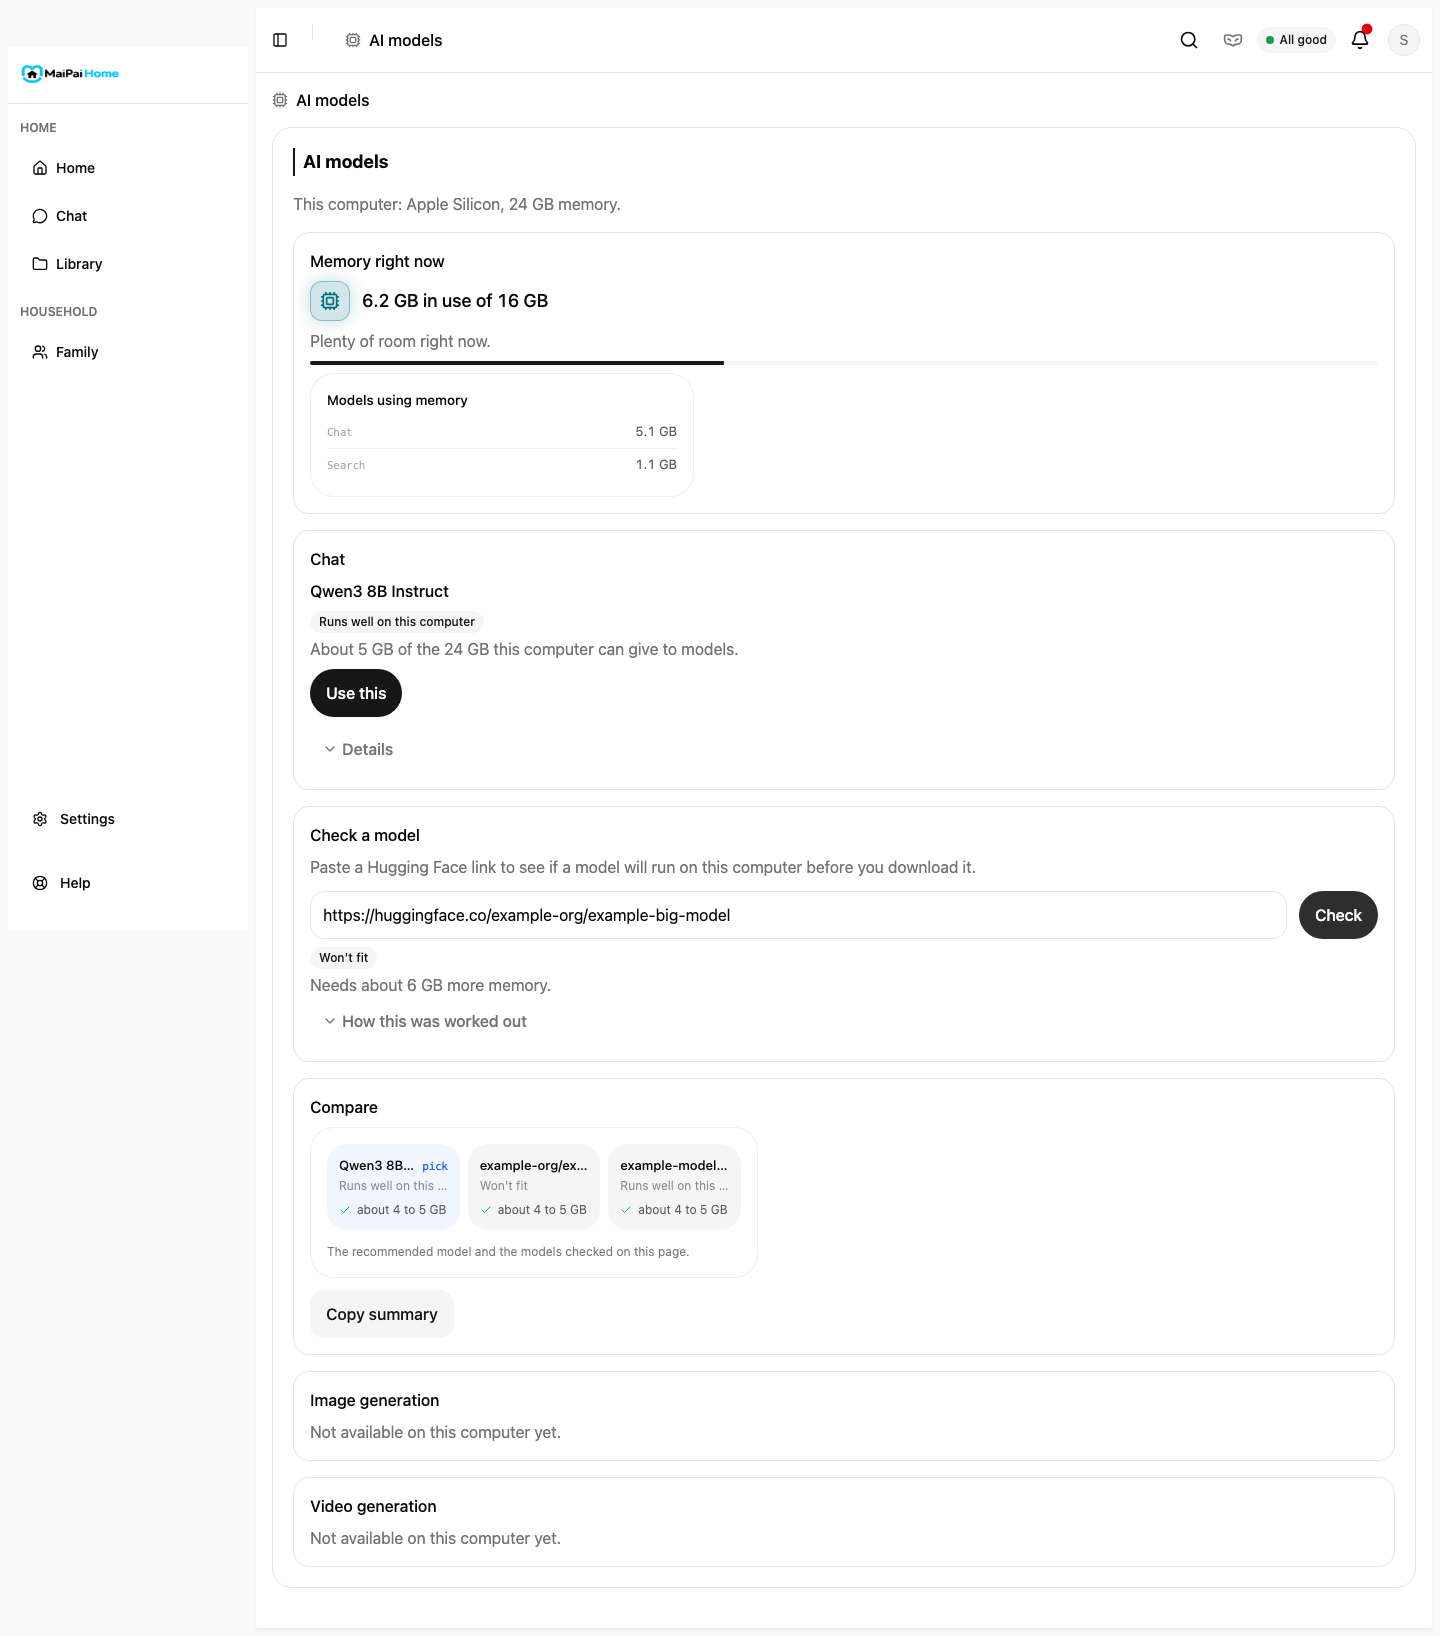
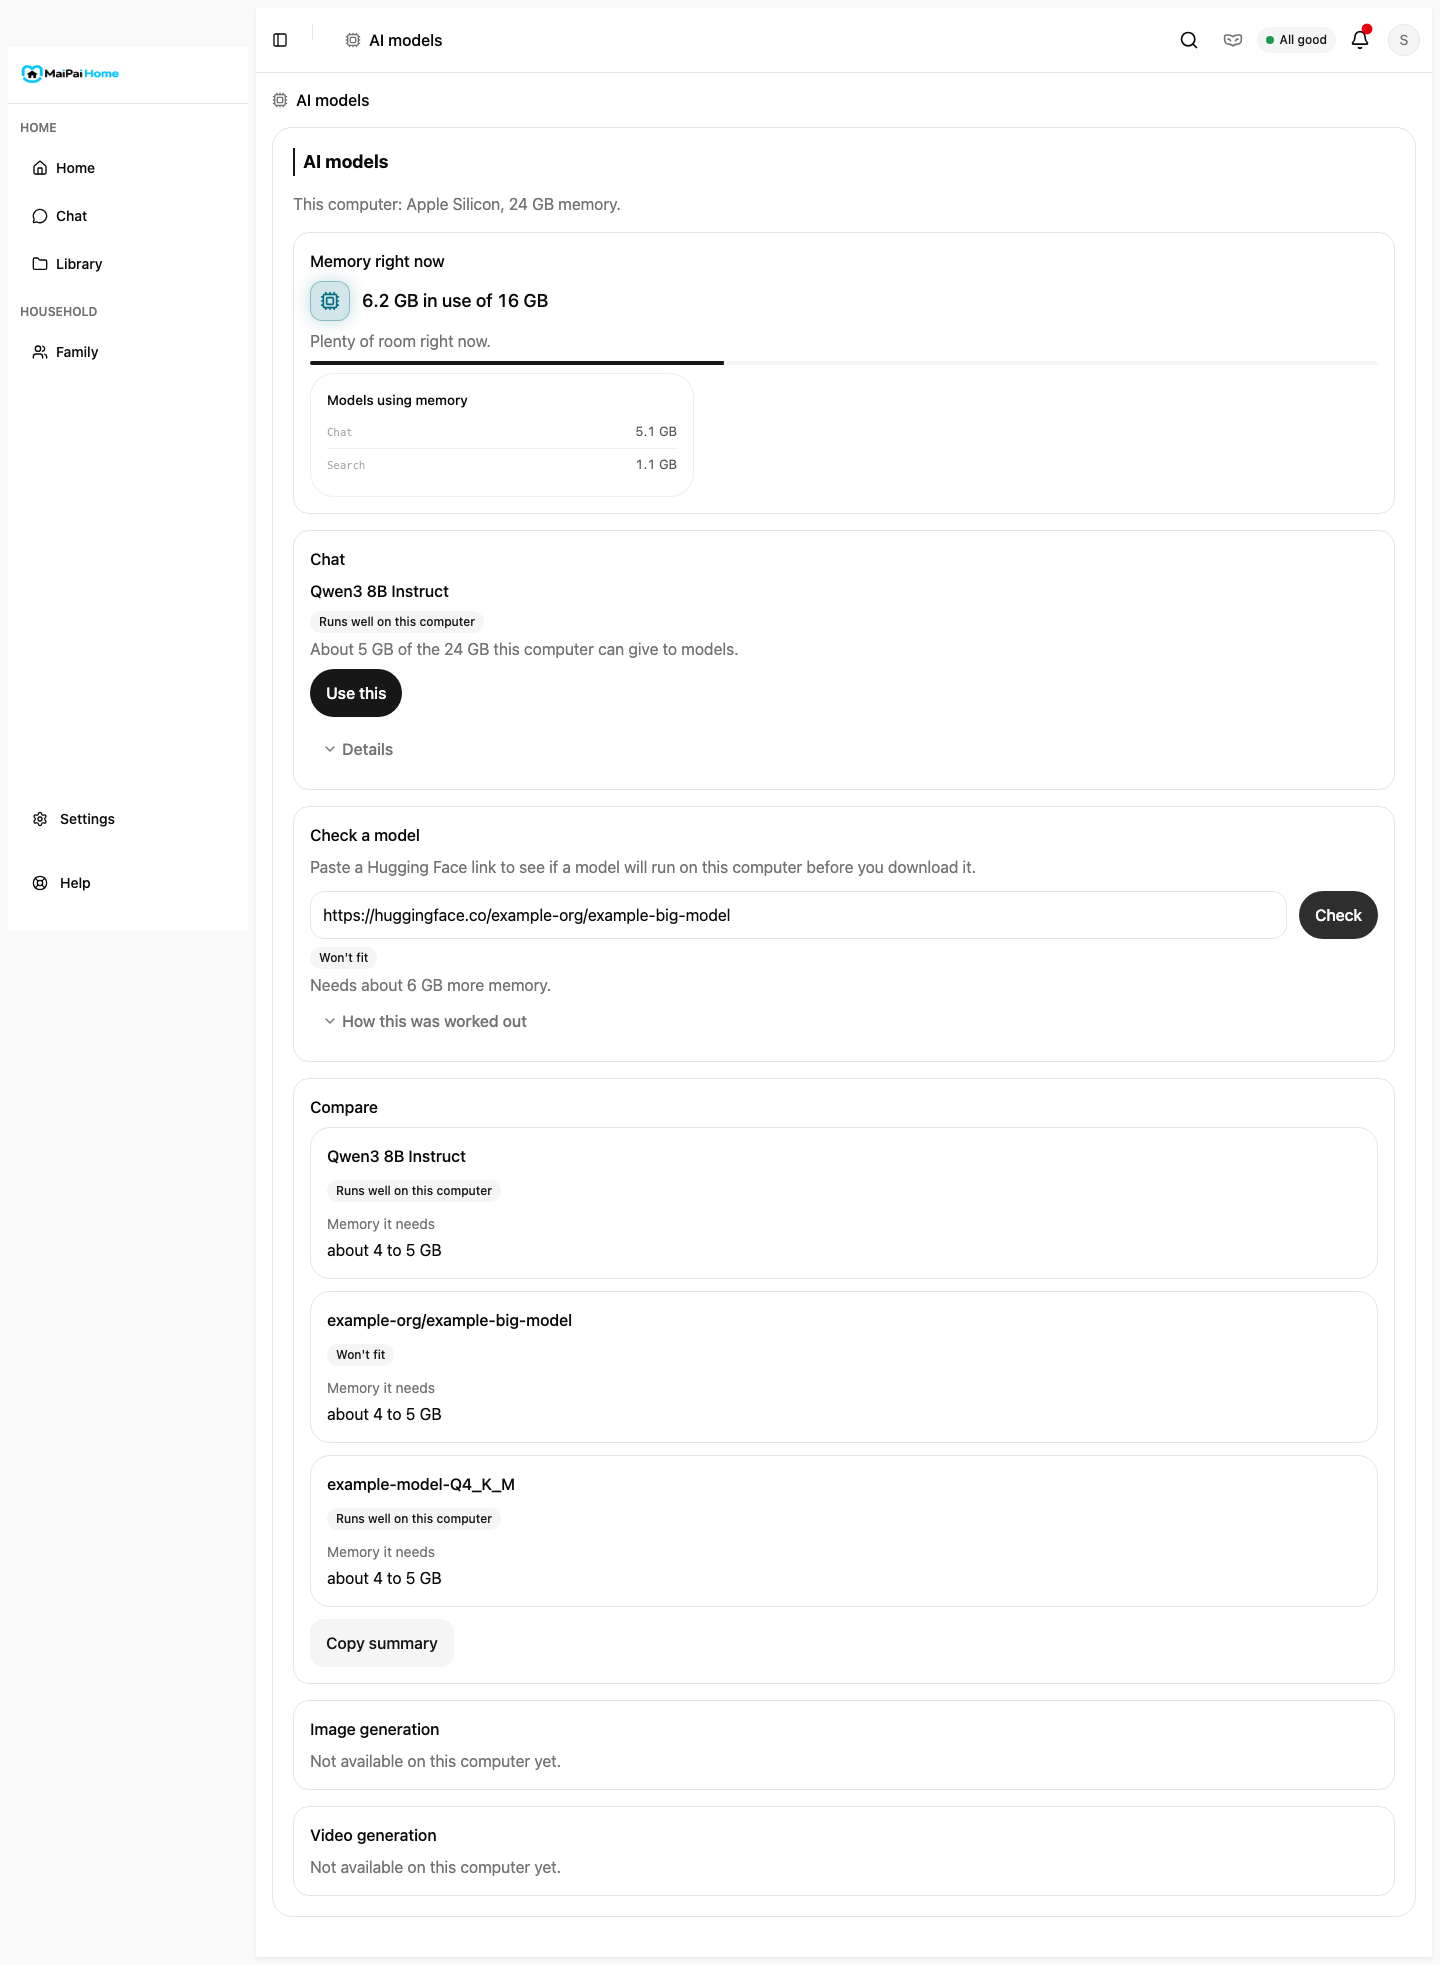
Home: a readable Compare card that does not pick or tick a no (HOME-FIT-04B)
The Compare card keeps model names and verdicts readable at phone width. No item is marked as a pick, and a model that will not fit has no check mark.

diff --git a/frontend/src/apps/settings/ModelsSection.test.tsx b/frontend/src/apps/settings/ModelsSection.test.tsx
@@ -128,10 +128,10 @@ describe("ModelsSection", () => {
       fireEvent.change(input, { target: { value: "https://huggingface.co/example-org/second-model" } });
       await act(async () => { fireEvent.click(getByRole("button", { name: "Check" })); });
       await findByText("example-org/second-model");
-      expect(document.querySelectorAll('[data-slot="comparison-card"] > div > div')).toHaveLength(3);
-      expect(document.querySelector('[data-slot="comparison-card"]')?.textContent).toContain("Qwen3 8B Instruct");
-      expect(document.querySelector('[data-slot="comparison-card"]')?.textContent).toContain("example-model-Q4_K_M");
-      expect(document.querySelector('[data-slot="comparison-card"]')?.textContent).toContain("example-org/second-model");
+      expect(document.querySelectorAll('[data-slot="compare-models"] [data-slot="card"]')).toHaveLength(3);
+      expect(document.querySelector('[data-slot="compare-models"]')?.textContent).toContain("Qwen3 8B Instruct");
+      expect(document.querySelector('[data-slot="compare-models"]')?.textContent).toContain("example-model-Q4_K_M");
+      expect(document.querySelector('[data-slot="compare-models"]')?.textContent).toContain("example-org/second-model");
     } finally { restore(); }
   });
 
@@ -145,7 +145,7 @@ describe("ModelsSection", () => {
         await act(async () => { fireEvent.click(getByRole("button", { name: "Check" })); });
         await findByText("example-model-Q4_K_M");
       }
-      expect(document.querySelectorAll('[data-slot="comparison-card"] > div > div')).toHaveLength(2);
+      expect(document.querySelectorAll('[data-slot="compare-models"] [data-slot="card"]')).toHaveLength(2);
     } finally { restore(); }
   });
 
@@ -154,7 +154,30 @@ describe("ModelsSection", () => {
     try {
       const { findByText } = render(<ModelsSection />);
       await findByText("Use this");
-      expect(document.querySelector('[data-slot="comparison-card"]')).toBeNull();
+      expect(document.querySelector('[data-slot="compare-models"]')).toBeNull();
+    } finally { restore(); }
+  });
+
+  test("each comparison shows complete names and verdicts without pick tags or checks for a no", async () => {
+    const restore = stubFetchWithFitPlanResponder(baseResponses, ({ source }) => source.repo ? FIT_NO : FIT_YES);
+    try {
+      const { findByRole, getByRole, findByText } = render(<ModelsSection />);
+      const input = await findByRole("textbox", { name: "Hugging Face model link" });
+      for (const link of [GGUF_LINK, "https://huggingface.co/example-org/example-big-model"]) {
+        fireEvent.change(input, { target: { value: link } });
+        await act(async () => { fireEvent.click(getByRole("button", { name: "Check" })); });
+      }
+      await findByText("example-org/example-big-model");
+      const text = document.body.textContent ?? "";
+      for (const expected of [
+        "Qwen3 8B Instruct", "Runs well on this computer",
+        "example-model-Q4_K_M", "Runs well on this computer",
+        "example-org/example-big-model", "Won't fit",
+      ]) expect(text).toContain(expected);
+      const noCard = Array.from(document.querySelectorAll('[data-slot="compare-models"] [data-slot="card"]')).find((card) => card.textContent?.includes("example-org/example-big-model"));
+      expect(noCard).toBeDefined();
+      expect(noCard?.textContent).not.toContain("pick");
+      expect(noCard?.querySelector("svg")).toBeNull();
     } finally { restore(); }
   });
 

diff --git a/frontend/src/apps/settings/ModelsSection.tsx b/frontend/src/apps/settings/ModelsSection.tsx
@@ -12,7 +12,7 @@ import { formatBytes } from "@/apps/settings/formatBytes";
 import { useFitPlan } from "@/lib/useFitPlan";
 import { modelLinkName, parseModelLink } from "@/lib/modelLink";
 import { SpecSheet } from "@maipai/ui/src/elements/spec-sheet";
-import { ComparisonCard } from "@maipai/ui/src/elements/comparison-card";
+import { Card } from "@maipai/ui/src/ui/card";
 import { Alert, AlertDescription, AlertTitle } from "@maipai/ui/src/dashboard/components/ui/alert";
 import { describeFitPlan, type FitPanelRow } from "@/lib/fitPanel";
 import type { ComputerMemoryResponse } from "@/lib/api";
@@ -537,9 +537,19 @@ function CompareCard({ recommended, checked, hardware }: { recommended: { name: 
     ...checked.filter((item) => item.response.plan !== null),
   ];
   if (comparable.length < 2) return null;
-  const options = comparable.map((item, index) => {
-    const need = item.response.plan ? describeFitPlan(item.response.plan).rows.find((row) => row.label === "Memory it needs")?.value ?? "Not known yet" : "Not known yet";
-    return { id: index === 0 ? "recommended" : `checked-${index}`, name: item.name, headline: item.response.wording.headline, traits: [need] };
+  const cards = comparable.map((item) => {
+    const need = describeFitPlan(item.response.plan!).rows.find((row) => row.label === "Memory it needs")?.value ?? "Not known yet";
+    const status = { yes: "online", slow: "degraded", no: "offline", unknown: "maintenance" }[item.response.wording.verdict] as "online" | "degraded" | "offline" | "maintenance";
+    return (
+      <Card key={item.name} className="gap-3 p-4">
+        <h4 className="break-words text-base font-medium">{item.name}</h4>
+        <Status status={status} className="w-fit">{item.response.wording.headline}</Status>
+        <div className="flex flex-col gap-1">
+          <span className="text-sm text-[var(--muted-foreground)]">Memory it needs</span>
+          <span className="break-words text-base tabular-nums">{need}</span>
+        </div>
+      </Card>
+    );
   });
   const usableGb = recommended.response?.plan?.cap.high === null || recommended.response?.plan?.cap.high === undefined
     ? null
@@ -564,7 +574,7 @@ function CompareCard({ recommended, checked, hardware }: { recommended: { name: 
   return (
     <RoleCardShell title="Compare">
       <div className="flex flex-col gap-3">
-        <ComparisonCard traitLabels={["Memory it needs"]} options={options} recommendedId="recommended" reason="The recommended model and the models checked on this page." />
+        <div data-slot="compare-models" className="flex flex-col gap-3">{cards}</div>
         <Button type="button" variant="secondary" className="w-fit" onClick={() => void copySummary()}>{copied ? "Copied" : "Copy summary"}</Button>
         {copyFailed ? <div className="flex flex-col gap-2"><p className="text-base text-[var(--muted-foreground)]">Could not copy. Select the text below instead.</p><Textarea aria-label="Summary to copy" readOnly rows={Math.min(12, summary.split("\n").length)} value={summary} /></div> : null}
       </div>

diff --git a/docs/BACKLOG.md b/docs/BACKLOG.md
@@ -530,7 +530,7 @@ The hub installs on what a family has; the Studio is the top of the range, not t
 
 - [x] **HOME-FIT-03: Landed 2026-09-30: 03A the panel, 03B Memory right now (GET /api/computer-memory), 03C fixes. The model's fit panel and the computer beside the list** (M, Sonnet; screens 3 and 4). Objective: a model's detail shows the plan laid out (memory needed as a range, memory available now, the way it would run, what limits it, where the number came from and when) and, when it will not fit, what would make it fit; a narrow card beside the list shows what is loaded now (one line per role), what is free and the usable limit. Kit parts: the icon-tile metric cards, `context-breakdown`, `spec-sheet`, `recommendation-card`, `inline-citation`; expand and collapse animate. Acceptance: headless flow and screenshots as above; the numbers on the panel equal the plan's, checked by a test. Also SETUP-SIZE-01 reuses this panel for its proposal and step-down. Exit: `bash scripts/check.sh` plus the screenshots.
 
-- [x] **HOME-FIT-04: compare and copy** (S, Sonnet; screen 5). Landed 2026-09-30: the Compare card and Copy summary on the AI models page; the compared set is the recommended model plus up to three checks made on the page. Objective: mark two or three models, see them side by side (`comparison-card`), and copy a plain-text summary of what fits and what does not; nothing is sent anywhere. Acceptance: the copied text is the same for the same plans (a test), contains no household facts, and the flow is exercised headless with a screenshot. Exit: `bash scripts/check.sh`.
+- [x] **HOME-FIT-04: compare and copy** (S, Sonnet; screen 5). Landed 2026-09-30: the Compare card and Copy summary on the AI models page; the compared set is the recommended model plus up to three checks made on the page. (04B: readable layout, no pick tag, no check on a no). Objective: mark two or three models, see them side by side (`comparison-card`), and copy a plain-text summary of what fits and what does not; nothing is sent anywhere. Acceptance: the copied text is the same for the same plans (a test), contains no household facts, and the flow is exercised headless with a screenshot. Exit: `bash scripts/check.sh`.
 
 - [ ] **HOME-FIT-05: retire Home's own sizer** (S, Sonnet; after HOME-FIT-02 and 03). Objective: delete `fitsWithin`, `recommend` and `kvCacheBytes` from `backend/src/lib/modelCatalog.ts` (they count a q8_0 KV element as 1 byte where ggml's layout gives 34/32, and are a second copy of what the Stack owns), and move every caller to HOME-FIT-01. Acceptance: no caller remains (a grep in the done report), the tests that asserted the old arithmetic are removed with the code, the suite is green. Exit: `bash scripts/check.sh`.
 - [ ] **PKG-UNINSTALL-01: the normal package uninstall path** (S, Sonnet; before CAP-GATE-01). Objective: the hub has no uninstall path today (`packageHost.ts` and the packages routes have none): add the route and the package's uninstall hook to PACKAGES.md's rule "Uninstall, and a person's files": the package's code removed and its surfaces hidden, its own settings and state kept for a reinstall, the person's media records (commons MEDIA-RECORD-01) untouched and still reachable from Library and Files, the confirmation in the standard's words. Files: the install lives in `backend/src/routes/plugins.ts` and `backend/src/routes/store.ts` (there is no `routes/packages.ts`; pointer corrected 2026-09-23), `backend/src/lib/plugins.ts`, `backend/src/lib/packageHost.ts` only if a host hook is needed, the apps page's uninstall action from the template's menus. Mirror: the install route in `store.ts`. Acceptance: an installed package is uninstalled through the route, its hook ran (a spy), it is gone from the packages route and the apps page, its settings and state rows remain and a reinstall reads them, a media record it wrote is still listed for its owner, and the confirmation text is the standard's; a child profile cannot uninstall. Out of scope: reconcile (CAP-GATE-01). Exit: `bash scripts/check.sh`.
